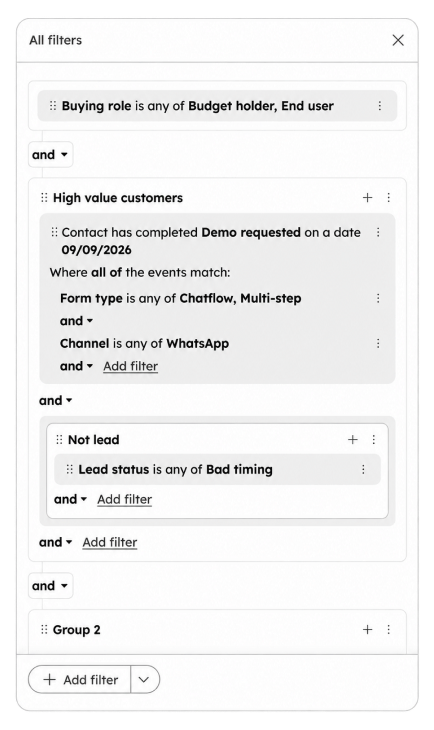
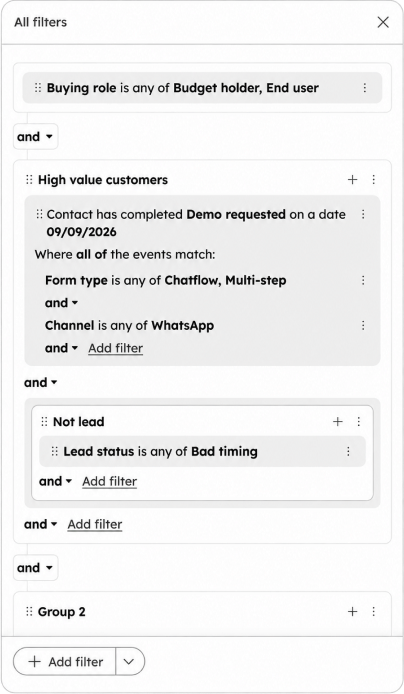
Unified filters: round 5 comments, section titles -2px, cover images without frame
Claude-Session: https://claude.ai/code/session_01GyDvf2zmgpJcW5A75ozgYg

diff --git a/work/filters/index.html b/work/filters/index.html
@@ -6,7 +6,7 @@
   <title>Unified filters — Charlene Yang</title>
   <meta name="description" content="Case study: leading a platform initiative at HubSpot to turn a fragmented filter experience into one shared model.">
   <link rel="stylesheet" href="../../assets/fonts/portfolio-fonts.css?v=figtree1">
-  <link rel="stylesheet" href="filters.css?v=1">
+  <link rel="stylesheet" href="filters.css?v=2">
   <link rel="stylesheet" href="../../assets/glass-cursor.css?v=7">
   <link rel="stylesheet" href="../../assets/case-nav.css?v=3">
   <script>
@@ -29,8 +29,8 @@
           <h1>Unified filters</h1>
         </div>
         <div class="uf-cover" aria-hidden="true">
-          <img class="uf-cover__picker" src="img/cover-picker.png" alt="" width="340" height="509">
-          <img class="uf-cover__editor" src="img/cover-editor.png" alt="" width="434" height="730">
+          <img class="uf-cover__picker" src="img/cover-picker.png?v=2" alt="" width="330" height="497">
+          <img class="uf-cover__editor" src="img/cover-editor.png?v=2" alt="" width="404" height="694">
         </div>
       </div>
     </header>
@@ -55,7 +55,7 @@
         <h2>Context</h2>
         <p class="uf-prose">HubSpot is a go-to-market platform that brings marketing, sales, customer service and operations into one system, built on a shared customer database. People come to HubSpot to find their data and ask questions about it. <strong>Filtering is how they do it.</strong></p>
 
-        <h3 class="uf-subhead">Filtering is the core interaction in four pillar products</h3>
+        <h3 class="uf-subhead">Filtering is the core interaction in 4 HubSpot pillar products</h3>
         <div class="uf-products">
           <article>
             <h4>CRM</h4>

diff --git a/work/filters/filters.css b/work/filters/filters.css
@@ -537,3 +537,11 @@ strong { font-weight: 600; }
 .uf-gif { margin-top: 32px; }
 .uf-gif img { display: block; width: 100%; max-width: 1000px; height: auto; border-radius: 12px; border: 1px solid var(--uf-line); }
 @media (max-width: 900px) { .uf-nl { grid-template-columns: 1fr; gap: 32px; } }
+
+/* Round 5 comments */
+.uf-section h2 { font-size: clamp(26px, 3.4vw, 36px); }
+.uf-demo h2 { font-size: clamp(36px, 5vw, 60px); }
+#overview h2 { font-size: 24px; }
+#learnings h2 { margin-bottom: 44px; }
+.uf-cover__picker { width: 40.8%; margin-right: -1%; }
+.uf-cover__editor { width: 50.3%; }
